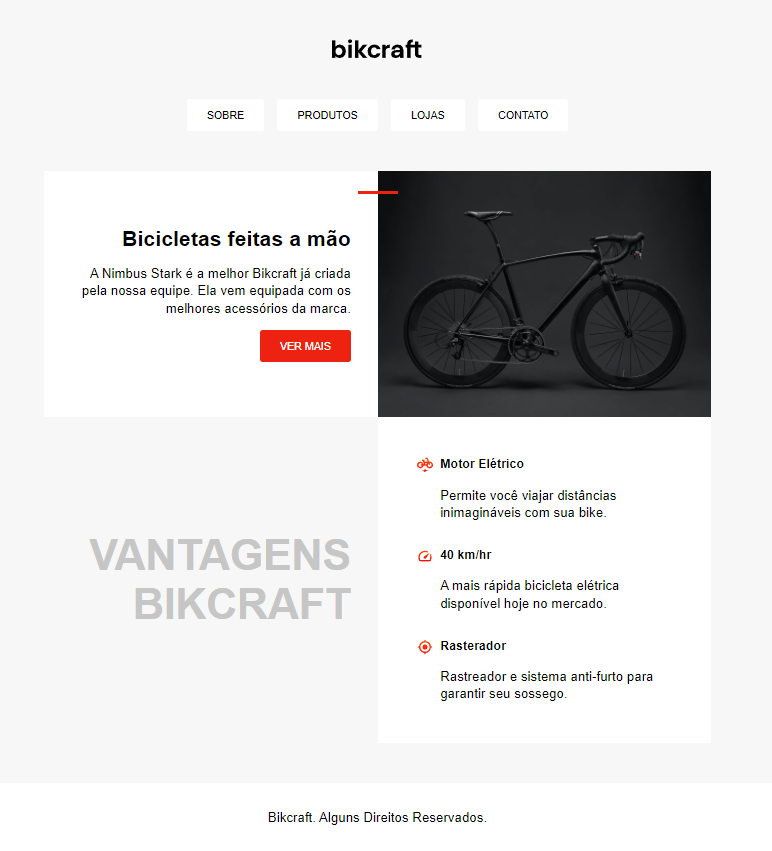
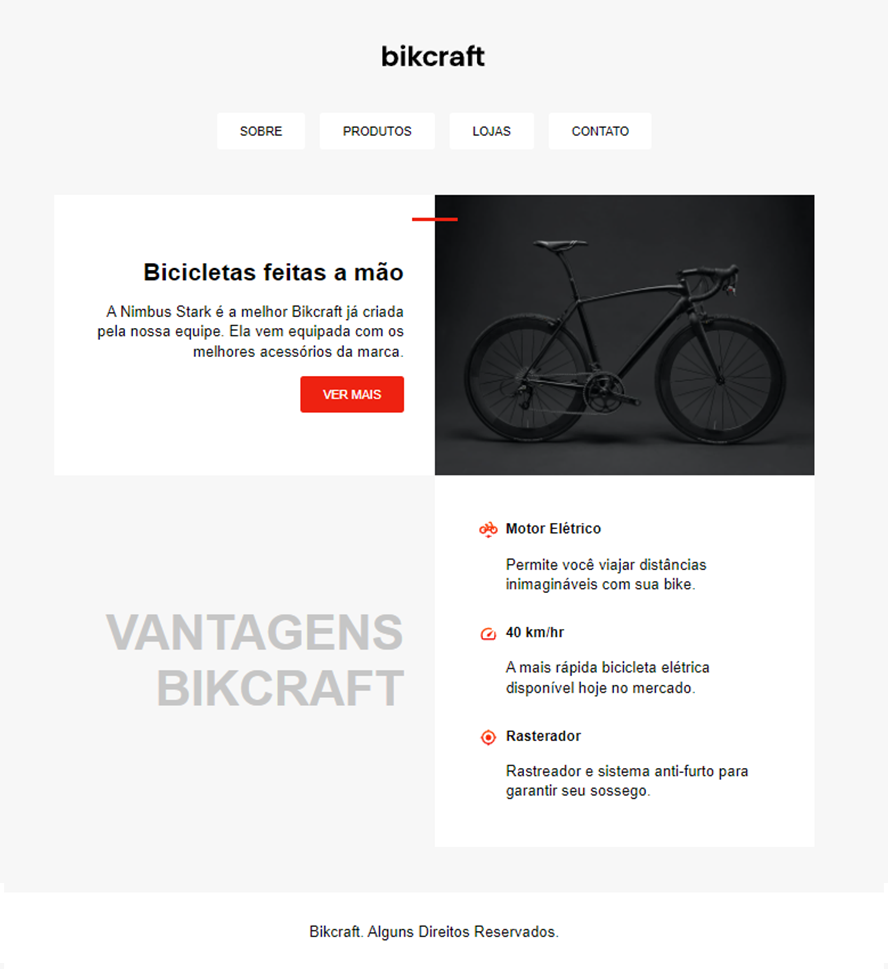
layout responsivo

diff --git a/style.css b/style.css
@@ -35,7 +35,7 @@ p {
   line-height: 1.3;
 }
 
-.header{
+.header {
   display: grid;
   grid-column: 1;
   gap: 80px;
@@ -60,11 +60,11 @@ p {
   border: 2px solid transparent;
 }
 
-.menu a:hover{
+.menu a:hover {
   border-color: #ee2211;
 }
 
-.principal{
+.principal {
   max-width: 1000px;
   grid-template-columns: 1fr 1fr;
   display: grid;
@@ -81,7 +81,13 @@ p {
   gap: 20px;
 }
 
-.titulo h1{
+.foto img {
+  object-fit: cover;
+  height: 100%;
+  object-position: center left;
+}
+
+.titulo h1 {
   font-size: 2rem;
 }
 
@@ -103,14 +109,8 @@ p {
   margin: 0px;
 }
 
-.principal a:hover{
+.principal a:hover {
   background: #900;
-}
-
-.items {
-  max-width: 1000px;
-  display: grid;
-  grid-template-columns: 1fr 1fr;
 }
 
 .subtitulo {
@@ -121,10 +121,10 @@ p {
   text-align: right;
   align-self: center;
   background-image: url(./img/onda.svg);
+  /* word-break: break-all; */
 }
 
-
-.vantagens{
+.vantagens {
   background: #ffffff;
   padding: 40px;
   margin: 0px;
@@ -156,4 +156,50 @@ p {
   width: 100%;
   padding: 40px;
   box-sizing: border-box;
+}
+
+@media (max-width: 1000px) {
+  .principal-vantagem {
+    grid-template-columns: 1fr;
+  }
+  .subtitulo {
+    text-align: center;
+  }
+  .introducao::before {
+    display: none;
+  }
+  .titulo {
+    justify-items: start;
+    text-align: left;
+  }
+}
+
+@media (max-width: 600px) {
+  body {
+    gap: 30px;
+    margin-top: 20px;
+  }
+  .header {
+    gap: 30px;
+    margin-bottom: 5px;
+  }
+  .principal {
+    grid-template-columns: 1fr;
+  }
+  .titulo {
+    justify-items: start;
+    text-align: left;
+  }
+  .introducao::before {
+    display: none;
+  }
+  .subtitulo {
+    font-size: 3rem;
+  }
+}
+
+@media (max-width: 400px) {
+  .subtitulo {
+    font-size: 2rem;
+  }
 }

diff --git a/index.html b/index.html
@@ -3,6 +3,7 @@
 
 <head>
   <meta charset="UTF-8">
+  <meta name="viewport" content="width=device-width, initial-scale=1.0">
   <title>Bikcrakft</title>
   <link rel="stylesheet" href="style.css">
 </head>
@@ -22,16 +23,18 @@
   </header>
 
   <main>
-    <article class="principal" aria-labelledby="label-introdução">
+    <article class="principal principal-vantagem" aria-labelledby="label-introdução">
       <div class="titulo">
         <h1 class="introducao" id="label-introdução">Bicicletas Feitas a Mão</h1>
         <p>A Nimbus Stark é a melhor Bikcraft já criada pela nossa equipe. Ela vem equipada com os melhores acessórios da marca.</p>
         <a class="vermais" href="/">VER MAIS</a>
       </div>
+      <div class="foto">
         <img src="/img/bicicleta.jpg" alt=" bicicleta bikcraft preta">
+      </div>
     </article>
 
-    <article class="items" aria-labelledby="label-vantagens">
+    <article class="principal principal-vantagem" aria-labelledby="label-vantagens">
       <h2 class="subtitulo" id="label-Vantagens">Vantagens Bikcraft</h2>
       <ul class="vantagens">
         <li class="vantagens-item">

diff --git a/README.md b/README.md
@@ -5,16 +5,19 @@ Para o exercício proposto seria necessário utilizar os conceitos aprendidos du
 
 Como o objeto é de estudo ele pode sofrer várias modificações 🛠
 
-Versão Inicial do meu estudo de layout. 
+Versão 1 do meu estudo de layout. 
 
 ![App Screenshot](img/telainicial_rev_0.png)
 
-Versão Final do meu estudo de layout. (26-04) 🎉
+Versão 2  26-04 
 
 (adição de tags semânticas, borda vermelha nos links do menu e algumas mudanças no design da página)
 
 ![App Screenshot](img/telainicial_rev_1.png)
 
+Versão Final 🎉 03-05
+
+(responsividade ao site)
 
 ## Documentação de cores 🖌
 
@@ -62,4 +65,3 @@ Inicie o servidor
 ## Licença
 
 Direitos Reservados a Origamid. 🐺
-
